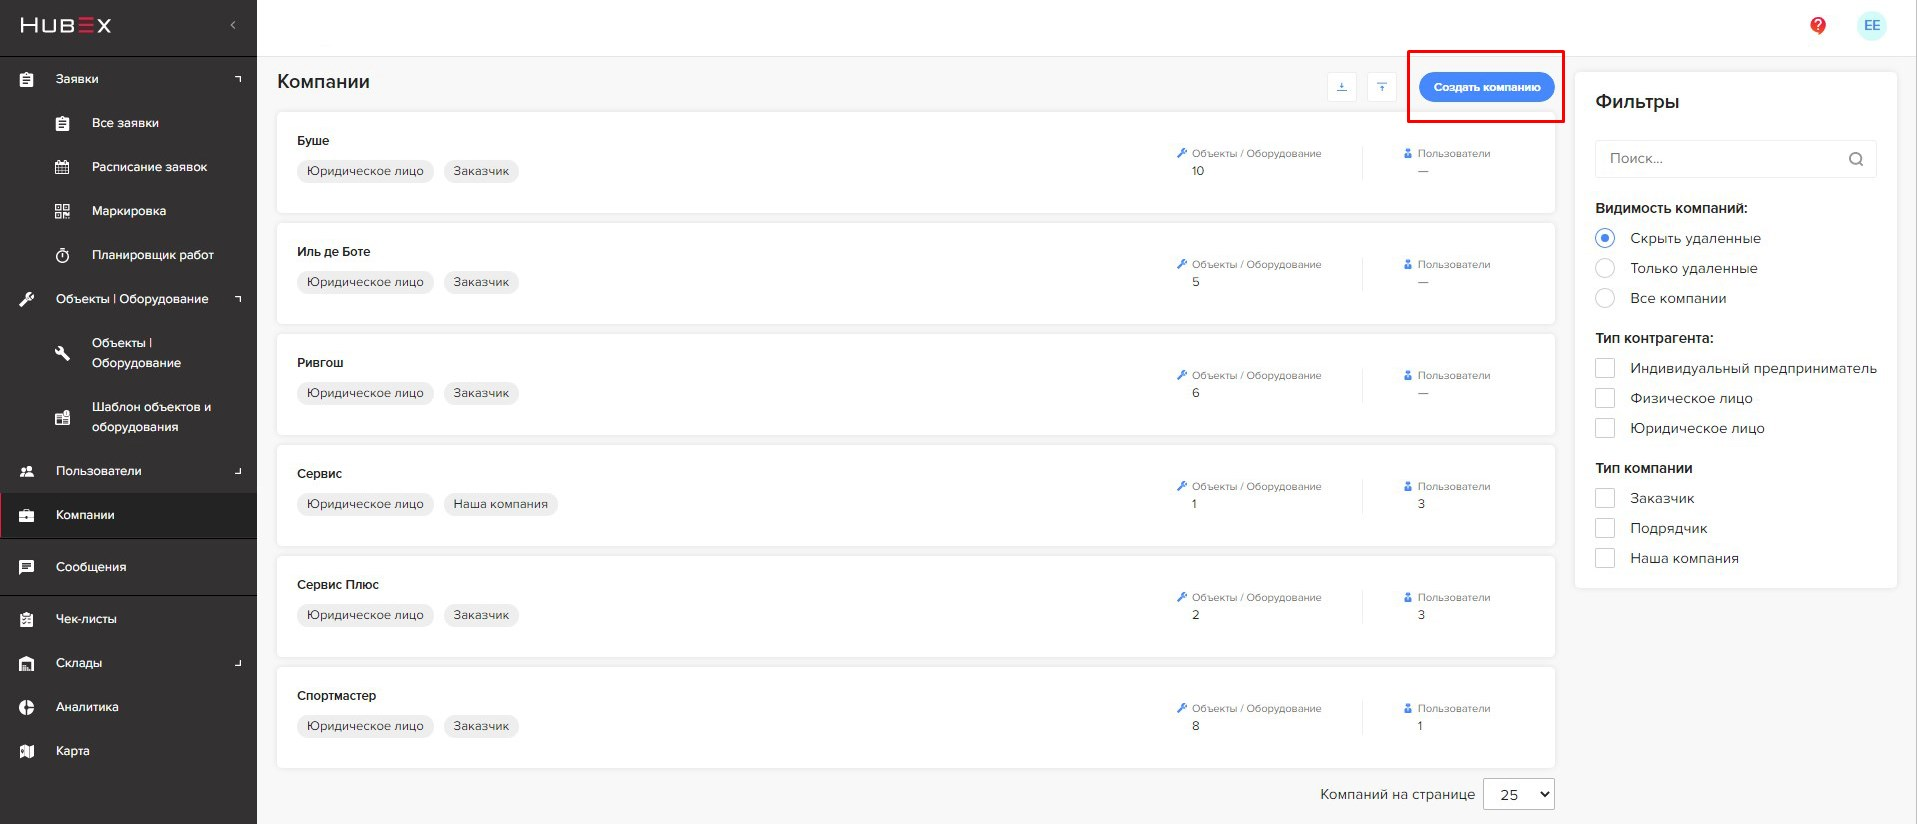
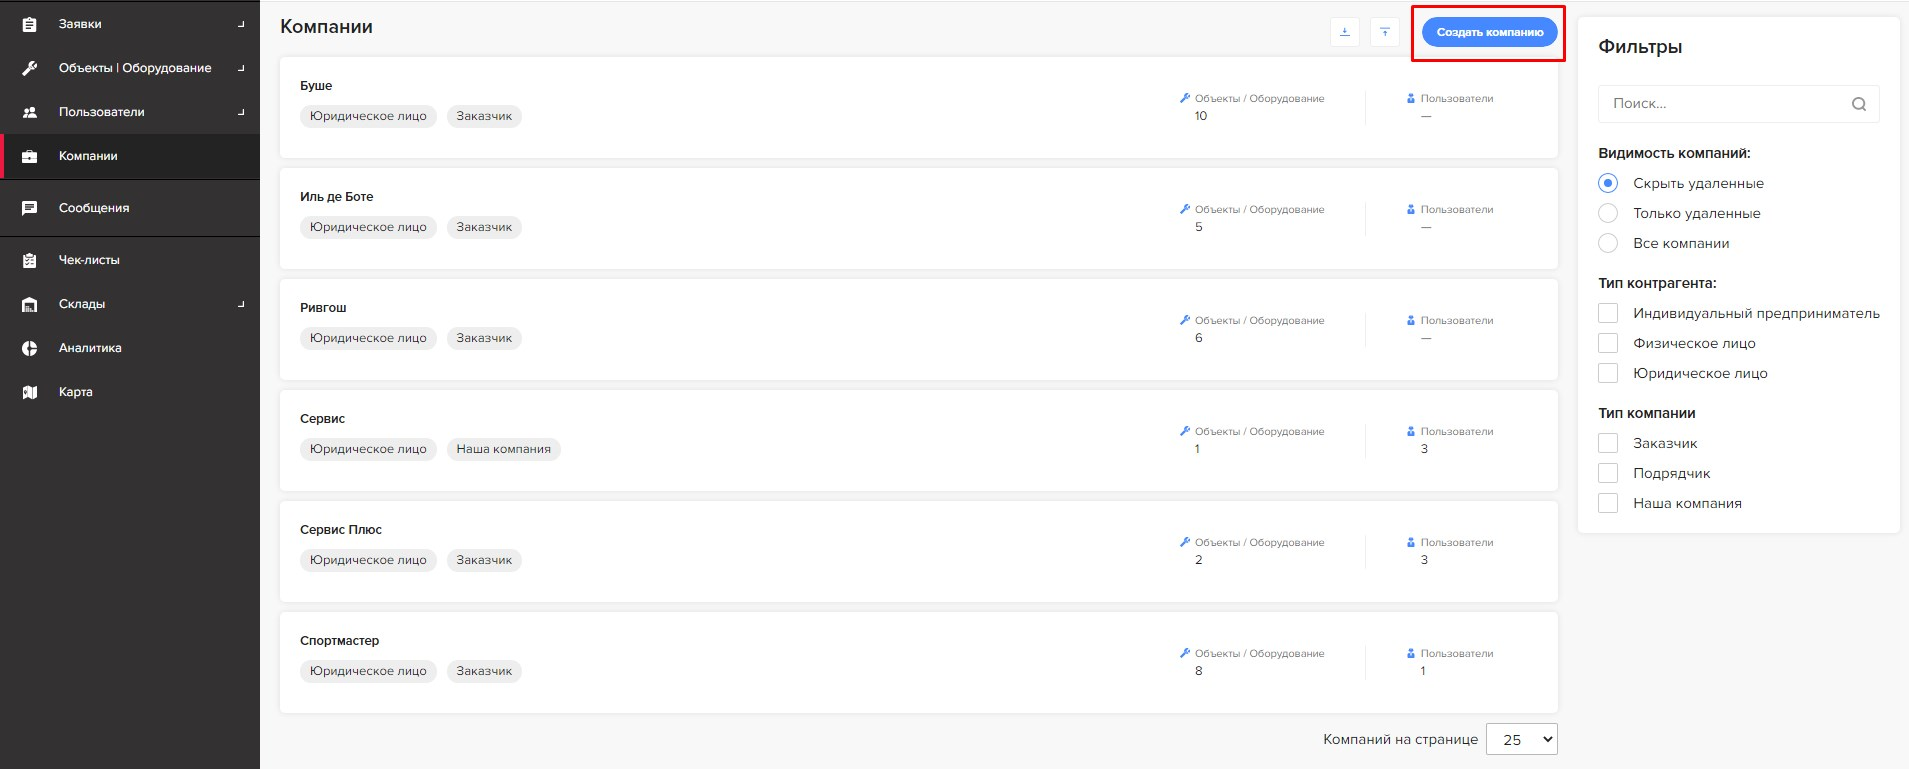
pics editting

diff --git a/docs/FAQ/RU/user/HubExStepByStep.md b/docs/FAQ/RU/user/HubExStepByStep.md
@@ -40,12 +40,12 @@
 <img style="margin: 0 auto; display: block; max-width: 100%;" src="/attachments/images/FAQ/USER/HubExStepByStep/stepbystep2.png"/>
 
 <p>Если ваша компания обслуживает несколько организаций, вы можете добавить каждую из них в справочник по кнопке <strong>Создать компанию</strong>. Подробная инструкция по заполнению реквизитов <strong>Компании</strong> находится в статье <a href="https://wiki.hubex.ru/docs/FAQ/RU/user/CreatingCompany.html"> Создание обслуживаемых компаний. </a></p>
-<img src="/attachments/images/FAQ/USER/HubExStepByStep/Companies.jpg"/>
+<img style="margin: 0 auto; display: block; max-width: 100%;" src="/attachments/images/FAQ/USER/HubExStepByStep/Companies.jpg"/>
 
 <h5 id="addobjects">Создание обслуживаемого оборудования</h5>
 <p> Внести необходимое оборудование можно на вкладке бокового меню <strong>Объекты | Оборудование</strong>.</p>
 
-<img src="/attachments/images/FAQ/USER/HubExStepByStep/Objects.jpg"/>
+<img style="margin: 0 auto; display: block; max-width: 100%;" src="/attachments/images/FAQ/USER/HubExStepByStep/Objects.jpg"/>
 
 <p>Нажав на кнопку <strong>Создать объект</strong>, вы можете внести оборудование. Подробная инструкция по заполнению всех реквизитов оборудования находится в статье <a href="https://wiki.hubex.ru/docs/FAQ/RU/user/CreatingObjects.html"> Ввод обслуживаемого оборудования.</a>  Необязательно вводить все объекты вручную. Для быстроты ввода данных можно использовать функцию <a href="https://wiki.hubex.ru/docs/FAQ/RU/user/Import.html#objects"> импорта оборудования. </a></p>
 
@@ -58,7 +58,7 @@
 
 <strong>Заказчик</strong> - пользователь системы, который только создает <strong>Заявки</strong>.</p>
 
-<img src="/attachments/images/FAQ/USER/HubExStepByStep/Customers.jpg"/>
+<img style="margin: 0 auto; display: block; max-width: 100%;" src="/attachments/images/FAQ/USER/HubExStepByStep/Customers.jpg"/>
 
 <p>Подробное создание заказчиков и сервсиных специалистов описано в соответствующих статьях <a href="https://wiki.hubex.ru/docs/FAQ/RU/user/CreatingCustomer.html"> Создание заказчиков</a> и <a href="https://wiki.hubex.ru/docs/FAQ/RU/user/CreatingUser.html"> Создание сотрудников.</a></p>
 
